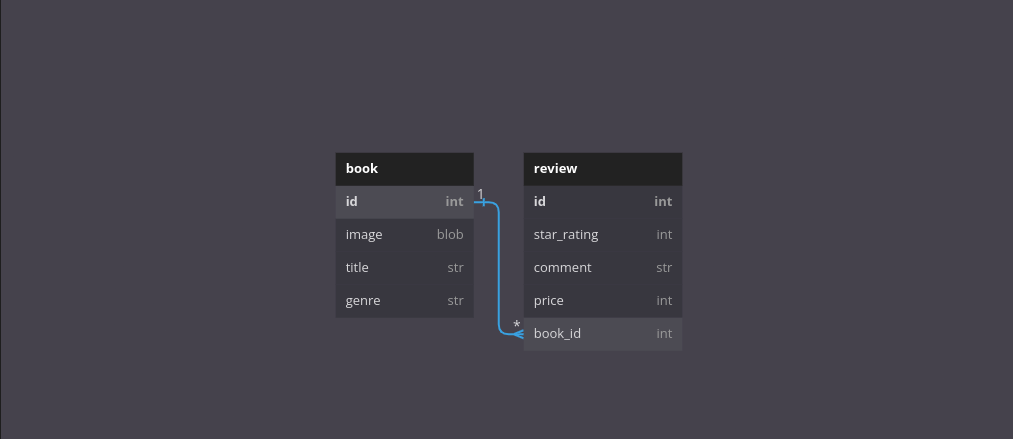
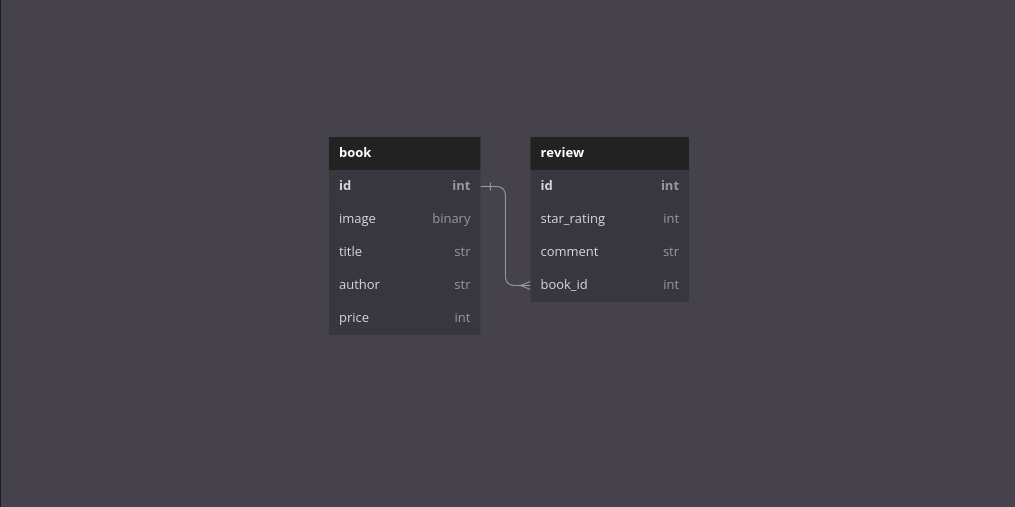
updated table

diff --git a/db/seeds.rb b/db/seeds.rb
@@ -4,28 +4,28 @@ puts "🌱 Seeding data..."
     Book.create(
         title: "A Glass of Blessings",
         image: "https://upload.wikimedia.org/wikipedia/en/thumb/d/d7/AGlassOfBlessings.jpg/220px-AGlassOfBlessings.jpg",
-        genre: "Novel",
+        author: "Barbara Pym",
         price: 800
     )
 
     Book.create(
         title: "His Dark Materials",
         image: "https://upload.wikimedia.org/wikipedia/en/thumb/e/e3/HisDarkMaterials1stEdition.jpg/220px-HisDarkMaterials1stEdition.jpg",
-        genre: "Children's literature",
+        author: "Phillip Pullman",
         price: 1000
     )
 
     Book.create(
         title: "Down to a Sunless Sea",
         image: "https://upload.wikimedia.org/wikipedia/en/b/b4/DownToASunlessSea.jpg",
-        genre: "Adventure fiction",
+        author: "David Graham",
         price: 500
     )
 
     Book.create(
         title: "The Book of Dust",
         image: "https://upload.wikimedia.org/wikipedia/en/0/0e/La_Belle_Sauvage.jpg",
-        genre: "Fantasy",
+        author: "Phillip Pullman",
         price: 750
     )
 

diff --git a/db/schema.rb b/db/schema.rb
@@ -15,7 +15,7 @@ ActiveRecord::Schema.define(version: 2023_02_28_094610) do
   create_table "books", force: :cascade do |t|
     t.binary "image"
     t.string "title"
-    t.string "genre"
+    t.string "author"
     t.integer "price"
     t.datetime "created_at", precision: 6, null: false
     t.datetime "updated_at", precision: 6, null: false

diff --git a/db/migrate/20230228094603_create_books.rb b/db/migrate/20230228094603_create_books.rb
@@ -3,7 +3,7 @@ class CreateBooks < ActiveRecord::Migration[6.1]
     create_table :books do |t|
       t.binary :image
       t.string :title
-      t.string :genre
+      t.string :author
       t.integer :price
       t.timestamps
     end
